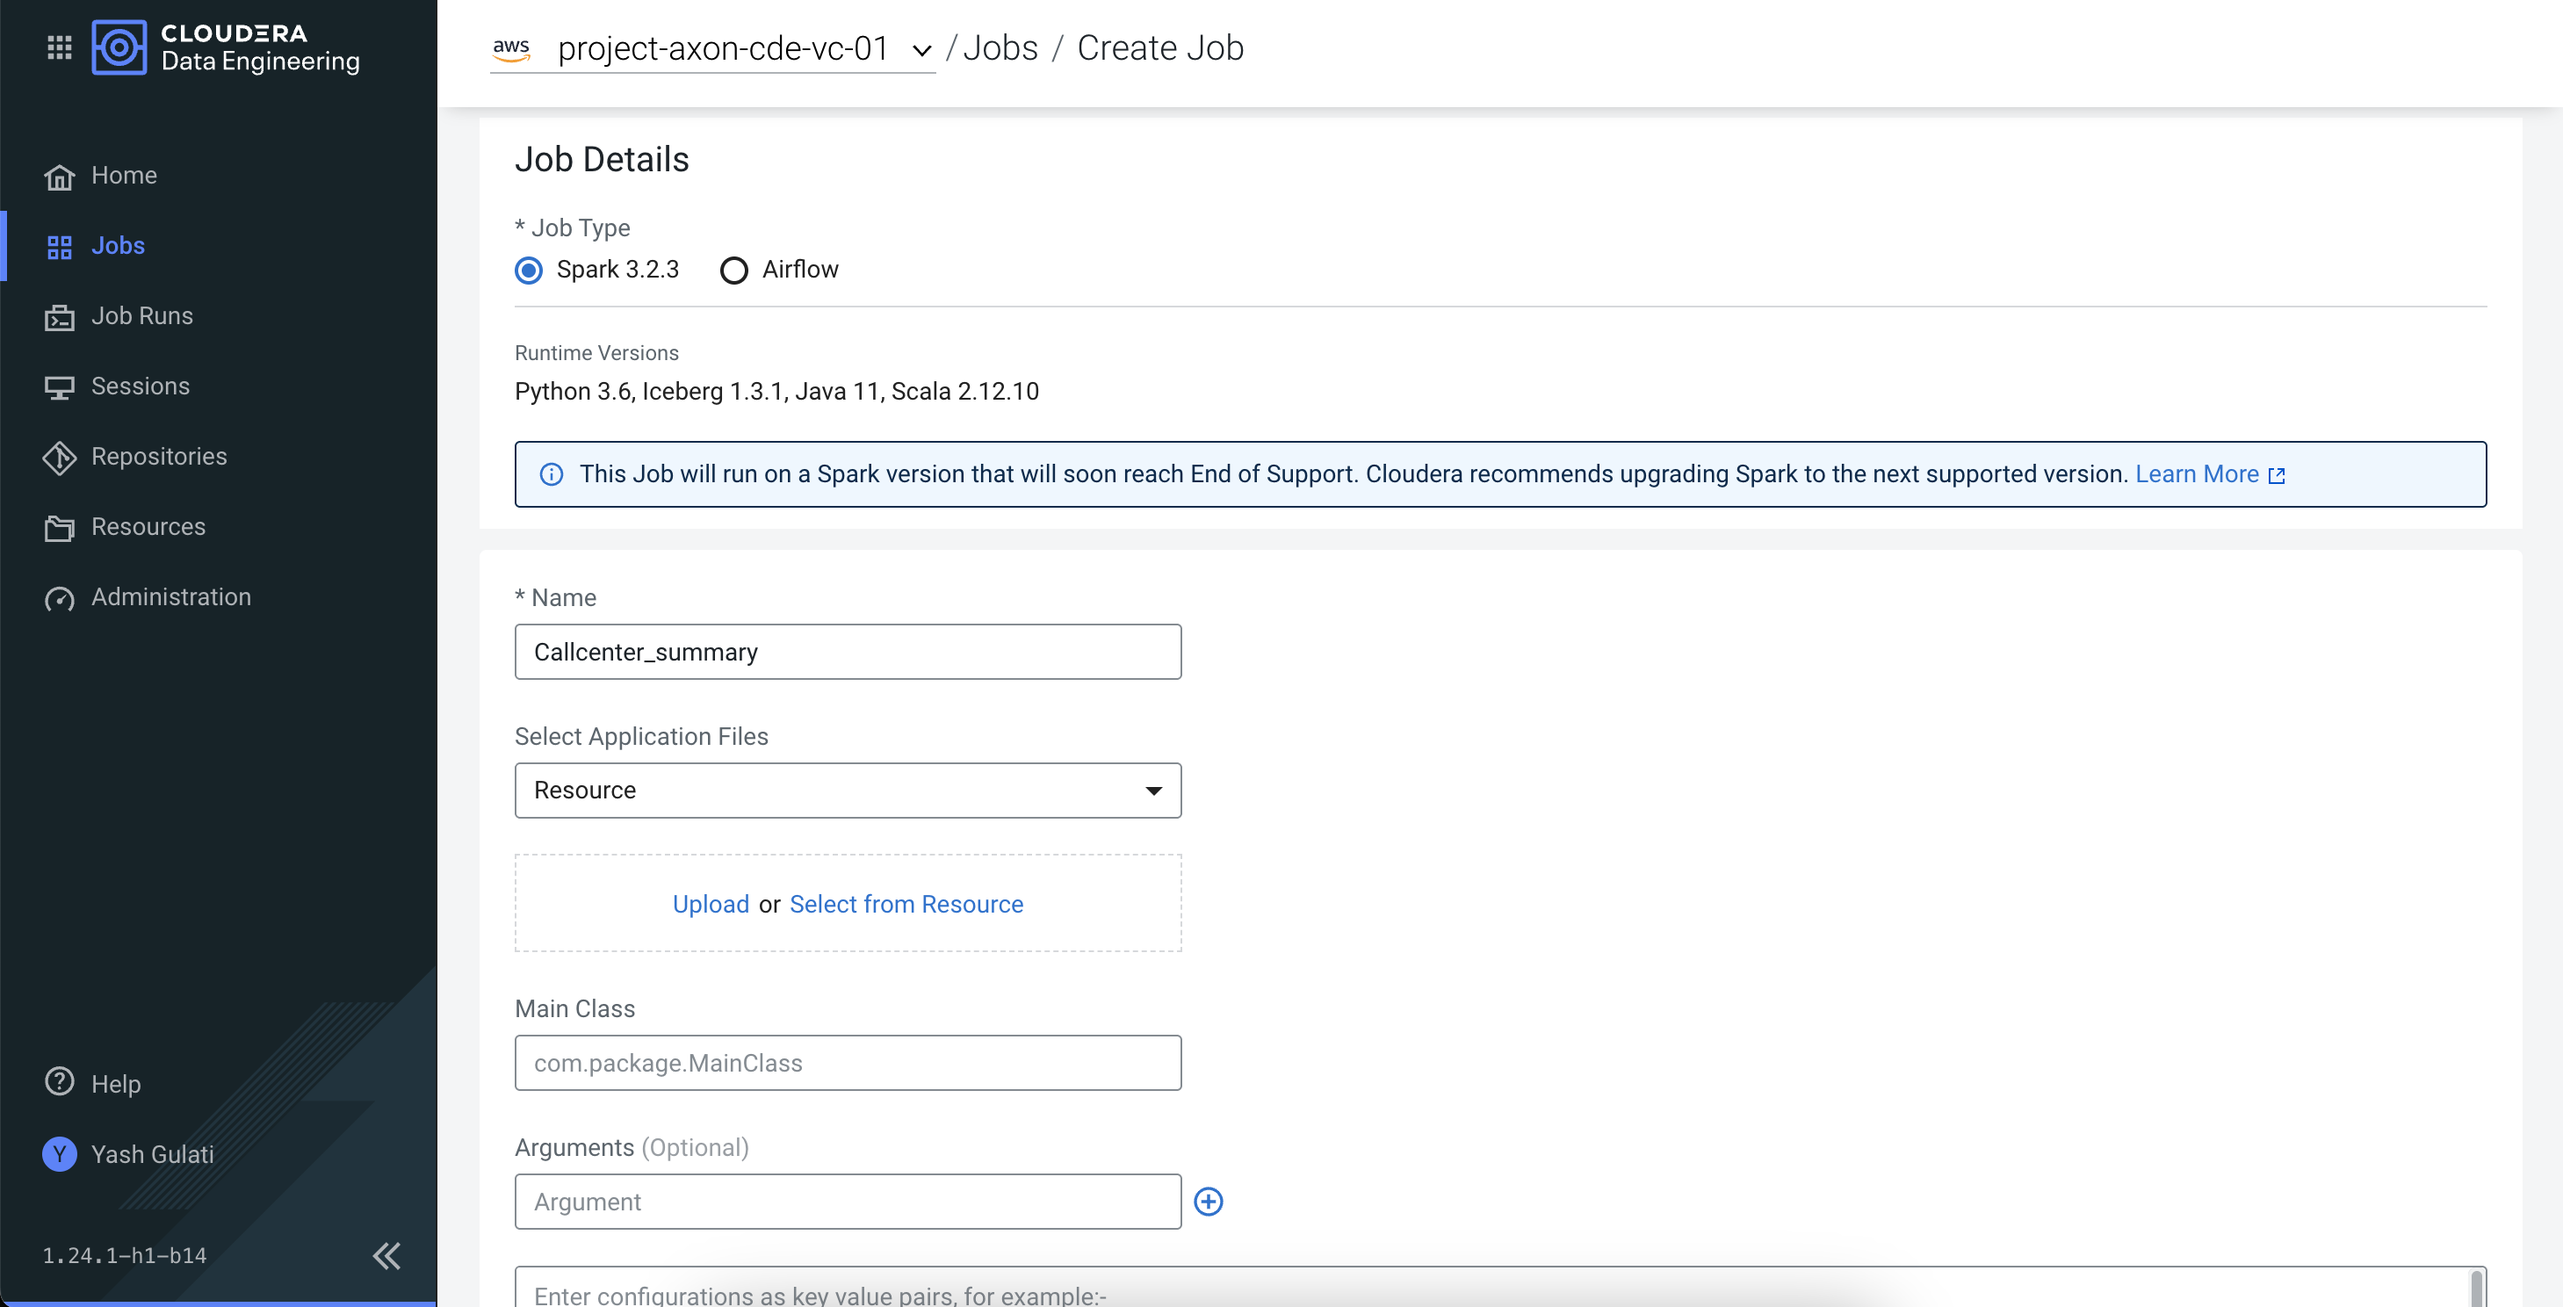
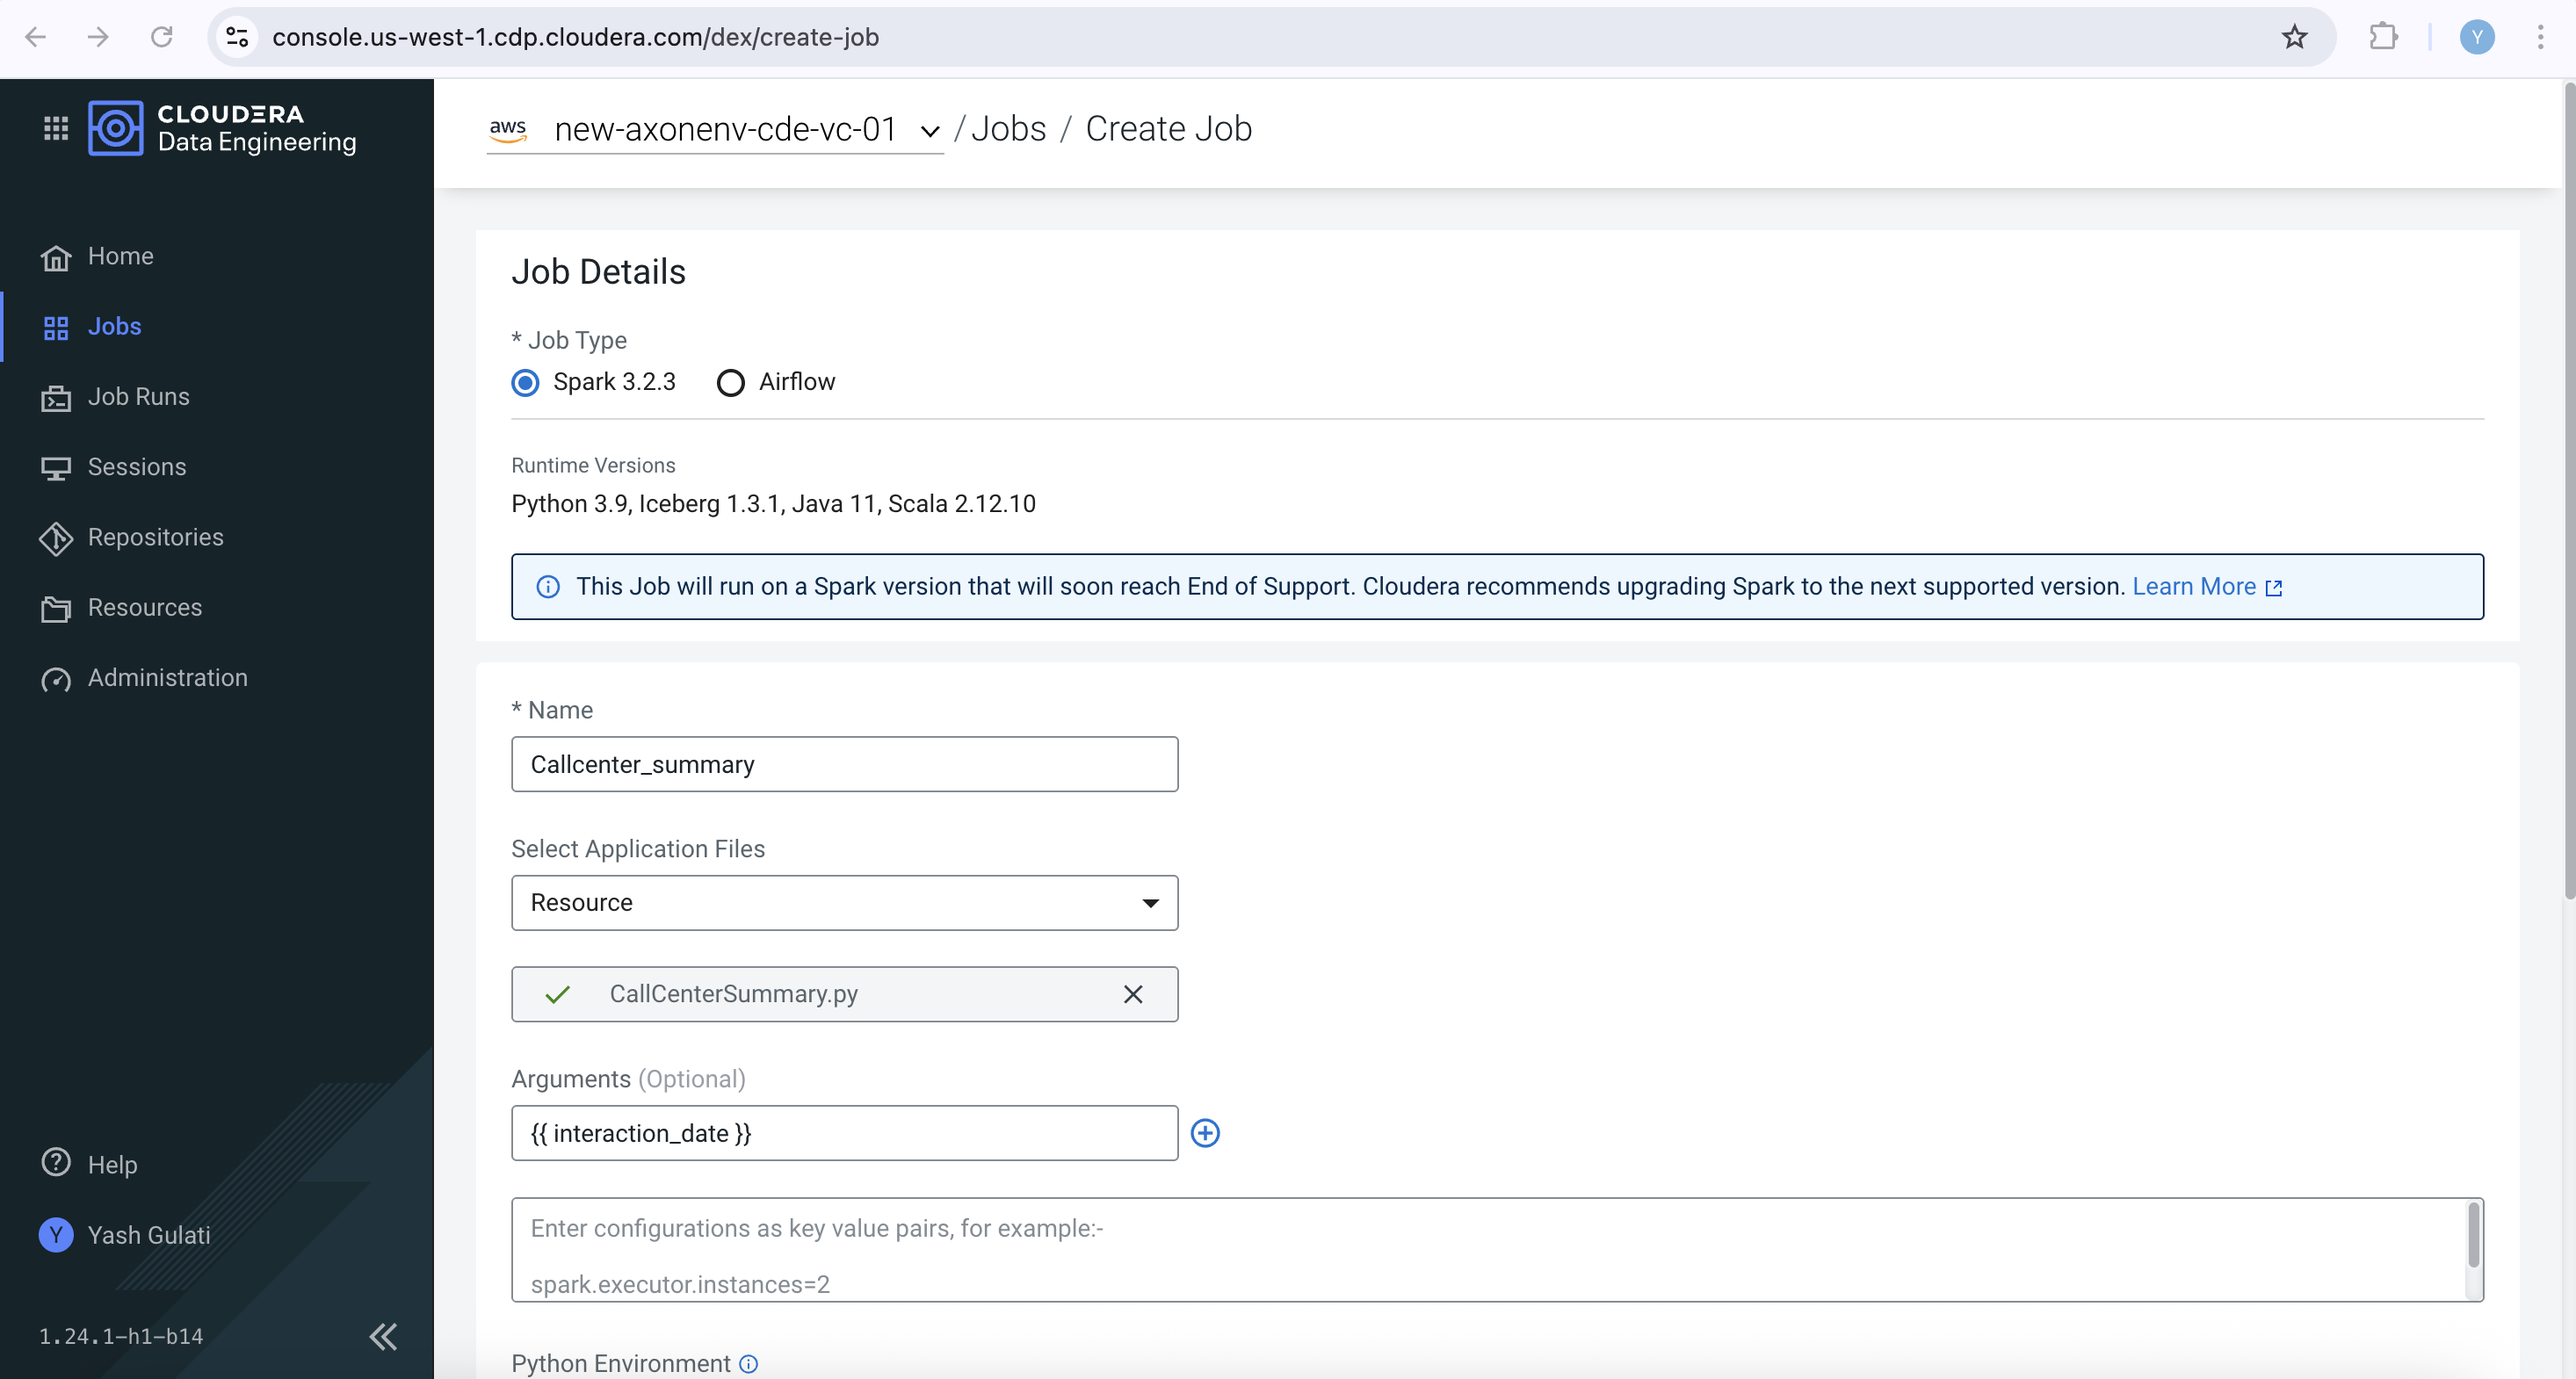
adding airflow conn steps in setup guide

diff --git a/Project-Axon/assets/CallCenterSummary.py b/Project-Axon/assets/CallCenterSummary.py
@@ -6,7 +6,7 @@ from pyspark.sql import SparkSession
 import sys
 
 ### Update the username
-username = "aktiwari".replace("-", "_")  ## Example: "apac01"
+username = "admin".replace("-", "_")  ## Example: "apac01"
 
 # Expect 1 arg: interaction_date
 if len(sys.argv) != 2:
